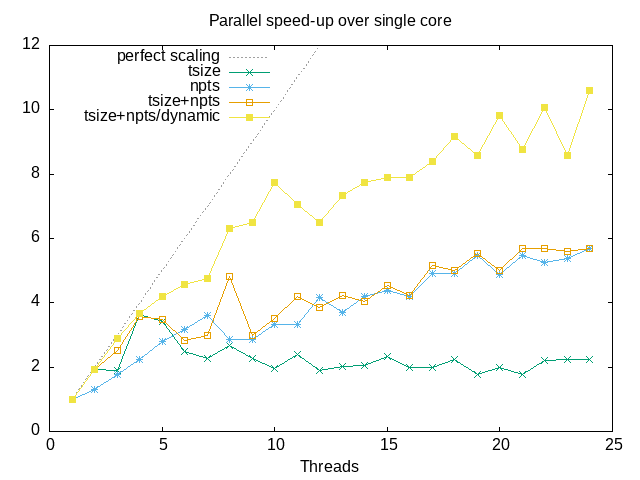
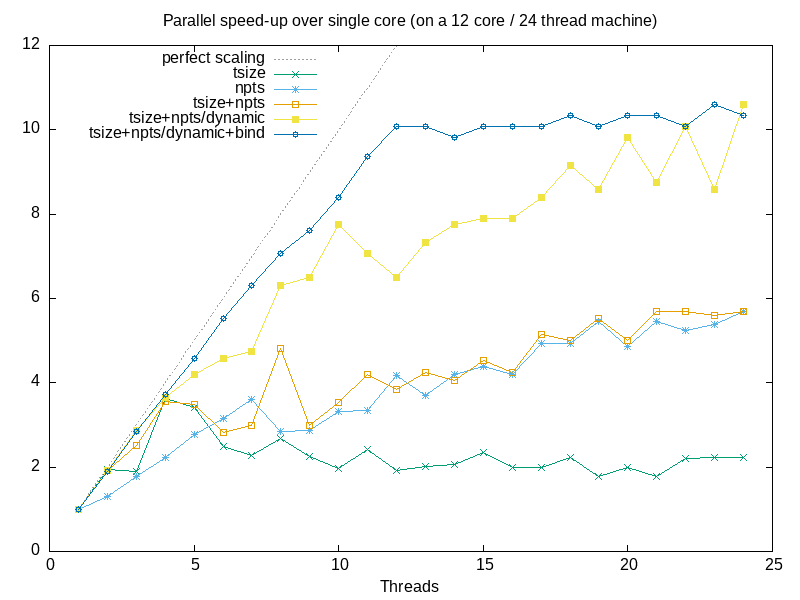
export OMP_PROC_BIND=true
- stops the OS from moving threads between cores

diff --git a/README.md b/README.md
@@ -20,7 +20,7 @@ The serial speed-up from each commit to the repo:
 - [4](https://github.com/ssciwr/jove-performance/commit/eb5d88e977ab9e25f9d67640c25690c57575029a): use [Eigen](https://eigen.tuxfamily.org) instead of Armadillo to generate vectorized code
 - [5](https://github.com/ssciwr/jove-performance/commit/6e44a30dc6f18f9f8faf02e99e7f9b7d8c874eb1): refactor to avoid some copies
 
-See the relevent commit message & changes to the code for more details
+See the relevant commit message & changes to the code for more details
 
 ![benchmark](benchmark.png)
 
@@ -28,10 +28,10 @@ The parallel speed-up from each commit to the repo:
 
 - [tsize](https://github.com/ssciwr/jove-performance/commit/ad5555cd3a866fe4f5891a0213fce31b440d477b): parallelize over `tsize`
 - [npts](https://github.com/ssciwr/jove-performance/commit/6f09110046bd1ca68a2d736ab77a65e66d59357a): parallelize over `npts`
-- [tsize+npts/dynamic](https://github.com/ssciwr/jove-performance/commit/3175db052060d1a4287347a811e91b8c0fbd6354): parallelize over `tsize` and `npts` + dynamic scheduling
-- [tsize+npts/dynamic](https://github.com/ssciwr/jove-performance/commit/612ac17b12164577cb386a9e474cd3a269e7c9ae): parallelize over `tsize` and `npts`, balance inner loop + static scheduling
- + dynamic scheduling
+- [tsize+npts](https://github.com/ssciwr/jove-performance/commit/b6d5a45df752d4a317542e6828c8cc402c46087f): parallelize over `tsize` and `npts`
+- [tsize+npts/dynamic](https://github.com/ssciwr/jove-performance/commit/06722f4918bee199c391a76d138a35924cf05af7): parallelize over `tsize` and `npts` + dynamic scheduling
+- [tsize+npts/dynamic/OMP_PROC_BIND](https://github.com/ssciwr/jove-performance/commit/57348b411257e3b8bbdd95faff600337e1e64566): parallelize over `tsize` and `npts` + dynamic scheduling + `export OMP_PROC_BIND=true` to stop OS from moving threads between cores
 
-See the relevent commit message & changes to the code for more details
+See the relevant commit message & changes to the code for more details
 
 ![scaling](scaling.png)
